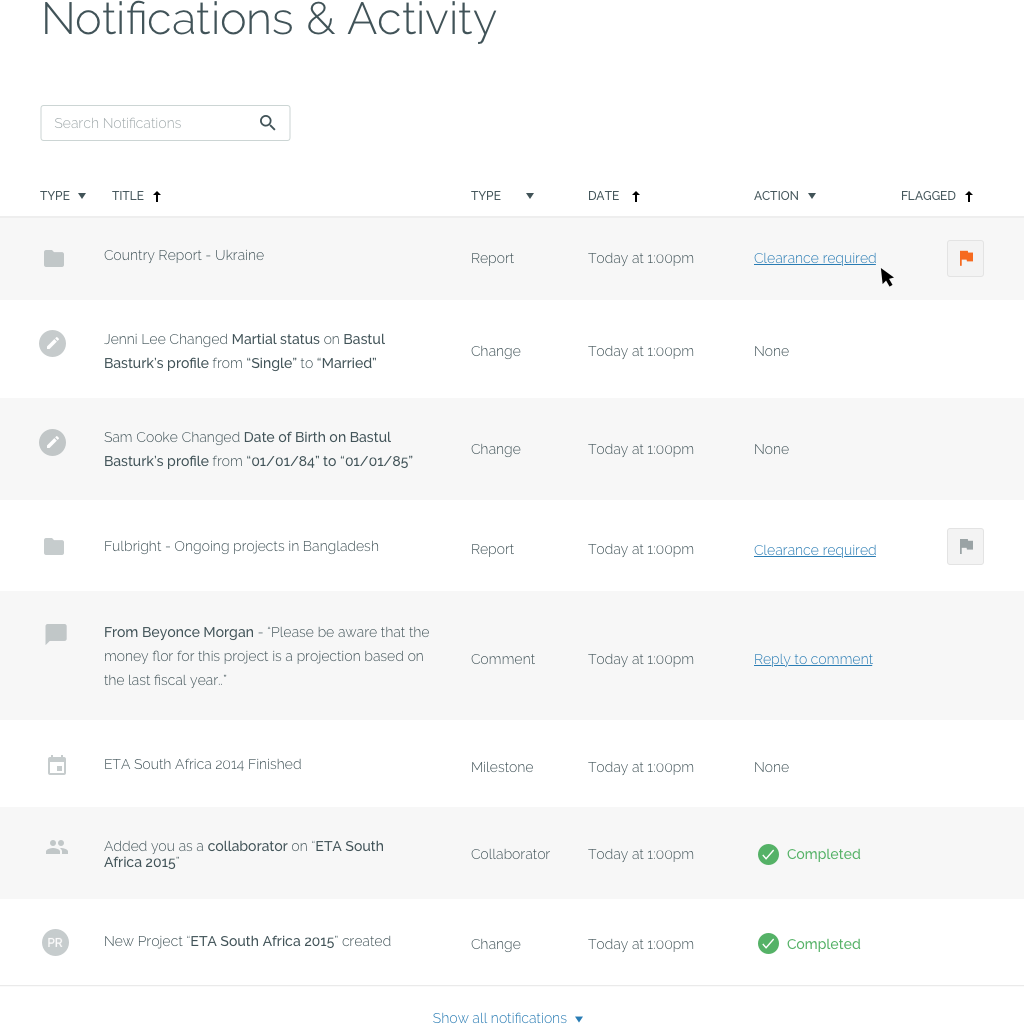
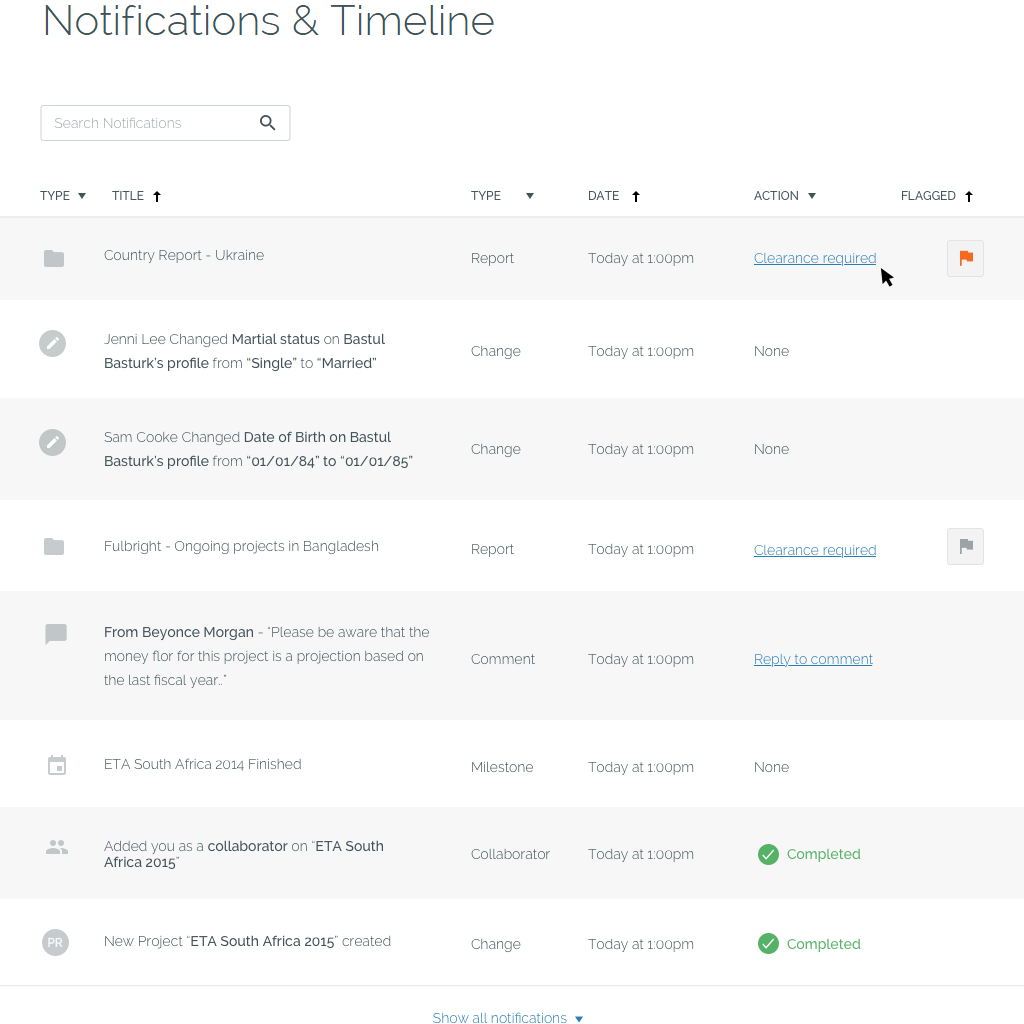
Ontology changes (excepting placeholder pngs)

Changed region(s): [[0.0312, 0.0, 0.5, 0.0312]]

diff --git a/App/ECA.WebApp.AngularJS/scripts/controllers/project.js b/App/ECA.WebApp.AngularJS/scripts/controllers/project.js
@@ -75,8 +75,8 @@ angular.module('staticApp')
           artifacts: {title: 'Artifacts',path: 'artifacts',active: true,order: 4 },
           moneyflows: {title: 'Funding',path: 'moneyflows',active: true,order: 5},
           impact: {title: 'Impact',path: 'impact',active: false,order: 6},
-          activity: {title: 'Activities',path: 'activity',active: true,order: 7},
-          itinerary: {title: 'Itineraries',path: 'itineraries',active: true,order: 8}
+          activity: {title: 'Timeline',path: 'activity',active: true,order: 7},
+          itinerary: {title: 'Travel',path: 'itineraries',active: true,order: 8}
       };
 
       function enabledProjectStatusButton() {
@@ -471,7 +471,6 @@ angular.module('staticApp')
                 }
                 else {
                     $scope.draftMoneyFlow = moneyFlow; //perhaps not, this is to get the id
-                    alert('completed save');
                     $scope.confirmSuccess = true;
                     $scope.modalClear();
                 }
@@ -481,7 +480,7 @@ angular.module('staticApp')
             })
 
               .catch(function () {
-                  alert('Unable to save money flow.');
+                  alert('Unable to save this funding item.');
               });
       };
 

diff --git a/App/ECA.WebApp.AngularJS/scripts/controllers/organization/organization.js b/App/ECA.WebApp.AngularJS/scripts/controllers/organization/organization.js
@@ -22,7 +22,7 @@ angular.module('staticApp')
           overview: { title: 'Overview', path: 'overview', active: true, order: 1 },
           artifacts: { title: 'Artifacts', path: 'artifacts', active: true, order: 2 },
           impact: { title: 'Impact', path: 'impact', active: true, order: 3 },
-          activity: { title: 'Activities', path: 'activities', active: true, order: 4 }
+          activity: { title: 'Timeline', path: 'activities', active: true, order: 4 }
       };
 
       $scope.view.organizationId = $stateParams.organizationId;

diff --git a/App/ECA.WebApp.AngularJS/scripts/app.js b/App/ECA.WebApp.AngularJS/scripts/app.js
@@ -456,7 +456,7 @@ angular
           { name: 'Programs', state: 'allprograms' },
           { name: 'Participants', state: 'allparticipants' },
           { name: 'Organizations', state: 'allorganizations' },
-          { name: 'Events', state: 'events' },
+          { name: 'Activities', state: 'events' },
           { name: 'Reports', state: 'reports' },
           { name: 'Partners', state: 'home.notifications' }
         ];

diff --git a/App/ECA.WebApp.AngularJS/views/project/itinerary.html b/App/ECA.WebApp.AngularJS/views/project/itinerary.html
@@ -1,3 +1,3 @@
-<h2 class="project-color tab-header">Itineraries</h2>
+<h2 class="project-color tab-header">Travel</h2>
 <img class="placehold" ng-show="program.owner.longName === 'Academic Exchange Programs'"  src="images/placeholders/project/fulbright_itinerary.png" alt="">
 <img class="placehold" ng-show="program.owner.longName === 'International Vistors'"  src="images/placeholders/project/itinerary.png" alt="">

diff --git a/App/ECA.WebApp.AngularJS/views/participants/partials/generalView.html b/App/ECA.WebApp.AngularJS/views/participants/partials/generalView.html
@@ -22,7 +22,7 @@
                 </div>
             </div>
             <div class="row">
-                <label class="col-md-4 title-label">Events Participated</label>
+                <label class="col-md-4 title-label">Activities Participated</label>
                 <div class="col-md-6">
                     <ul>
                         <li ng-repeat="event in general.events">{{event.value}}</li>

diff --git a/App/ECA.WebApp.AngularJS/scripts/controllers/home.js b/App/ECA.WebApp.AngularJS/scripts/controllers/home.js
@@ -17,7 +17,7 @@ angular.module('staticApp')
               order: 1
           },
           notfications: {
-              title: 'Notifications & Activity',
+              title: 'Notifications & Timeline',
               path: 'notifications',
               active: true,
               order: 2

diff --git a/App/ECA.WebApp.AngularJS/views/organizations/activities.html b/App/ECA.WebApp.AngularJS/views/organizations/activities.html
@@ -5,6 +5,6 @@
 </div>
 
 <div ng-show="!view.isOrganizationLoading">
-    <h2 class="organization-color tab-header" ng-show="!view.isOrganizationLoading">Activites</h2>
+    <h2 class="organization-color tab-header" ng-show="!view.isOrganizationLoading">Timeline</h2>
 </div>
 

diff --git a/App/ECA.WebApp.AngularJS/scripts/controllers/office.js b/App/ECA.WebApp.AngularJS/scripts/controllers/office.js
@@ -24,7 +24,7 @@ angular.module('staticApp')
               order: 2
           },
           participants: {
-              title: 'Activity',
+              title: 'Timeline',
               path: 'activity',
               active: true,
               order: 3

diff --git a/App/ECA.WebApp.AngularJS/scripts/controllers/participants.js b/App/ECA.WebApp.AngularJS/scripts/controllers/participants.js
@@ -18,7 +18,7 @@ angular.module('staticApp')
               order: 1
           },
           activity: {
-              title: 'Activities',
+              title: 'Timeline',
               path: 'activity',
               active: true,
               order: 2

diff --git a/App/ECA.WebApp.AngularJS/scripts/controllers/programs.js b/App/ECA.WebApp.AngularJS/scripts/controllers/programs.js
@@ -36,7 +36,7 @@ angular.module('staticApp')
               order: 2
           },
           activity: {
-              title: 'Activity',
+              title: 'Timeline',
               path: 'activity',
               active: true,
               order: 3

diff --git a/App/ECA.WebApp.AngularJS/views/project/activity.html b/App/ECA.WebApp.AngularJS/views/project/activity.html
@@ -1,2 +1,2 @@
-<h2 class="project-color tab-header">Activities</h2>
+<h2 class="project-color tab-header">Timeline</h2>
 <img class="placehold" src="images/placeholders/activity.png" alt="">

diff --git a/App/ECA.WebApp.AngularJS/views/program/activity.html b/App/ECA.WebApp.AngularJS/views/program/activity.html
@@ -1,2 +1,2 @@
-<h2 class="program-color tab-header">Activity</h2>
+<h2 class="program-color tab-header">Timeline</h2>
 <img class="placehold" src="images/placeholders/activity.png" alt="">
